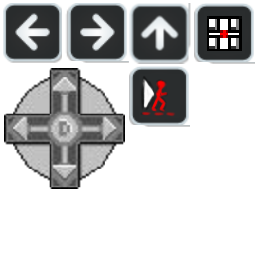
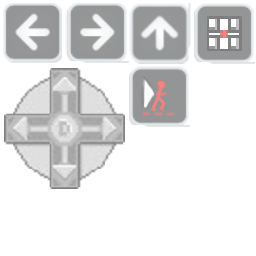
transparent buttons table debug lines disabled

diff --git a/core/src/com/zeher/kombat/Controls.java b/core/src/com/zeher/kombat/Controls.java
@@ -53,12 +53,11 @@ public class Controls {
         table = new Table();
         table.setFillParent(true);
         stage.addActor(table);
-        table.setDebug(true); // This is optional, but enables debug lines for tables.
+        //table.setDebug(true); // This is optional, but enables debug lines for tables.
         texture=new Texture(Gdx.files.internal("controls.png"));
         upRegion = new TextureRegion(texture,64,64);
         downRegion =new TextureRegion(texture,64,64);
         buttonFont =new BitmapFont();
-
         style = new TextButton.TextButtonStyle();
         style.up = new TextureRegionDrawable(upRegion);
         style.down = new TextureRegionDrawable(downRegion);
@@ -69,7 +68,6 @@ public class Controls {
     private void loadAssets () {
         Texture texture = new Texture(Gdx.files.internal("controls.png"));
         TextureRegion[] buttons = TextureRegion.split(texture, 64, 64)[0];
-
         leftB = new LeftButton("lower", style,game);
         table.add(leftB).width(leftRightWidth).height(leftRightHeight).padRight(120);
         table.left().bottom();
@@ -109,7 +107,9 @@ public class Controls {
     public void render (float delta) {
         //Gdx.gl.glClear(GL20.GL_COLOR_BUFFER_BIT);
         stage.act(delta);
+
         stage.draw();
+
     }
 
     public void dispose () {

diff --git a/core/src/com/zeher/kombat/Screens/IntroScreen.java b/core/src/com/zeher/kombat/Screens/IntroScreen.java
@@ -41,7 +41,7 @@ public class IntroScreen implements Screen{
         table.setFillParent(true);
         stage.addActor(table);
 
-        table.setDebug(true); // This is optional, but enables debug lines for tables.
+        //table.setDebug(true); // This is optional, but enables debug lines for tables.
         Texture texture=new Texture(Gdx.files.internal("controls.png"));
         TextureRegion upRegion = new TextureRegion(texture,64,64);
         //BitmapFont buttonFont =new BitmapFont();

diff --git a/core/src/com/zeher/kombat/Kombat.java b/core/src/com/zeher/kombat/Kombat.java
@@ -3,12 +3,12 @@ package com.zeher.kombat;
     To DO
     1.
 
-    2. levels testing
-    next 3.
+    next 2. levels testing
+    3.
     4. graphics
     5. Sound
     6.
-    7. transparent buttons
+    7.
  */
 import com.badlogic.gdx.Game;
 import com.badlogic.gdx.Gdx;
